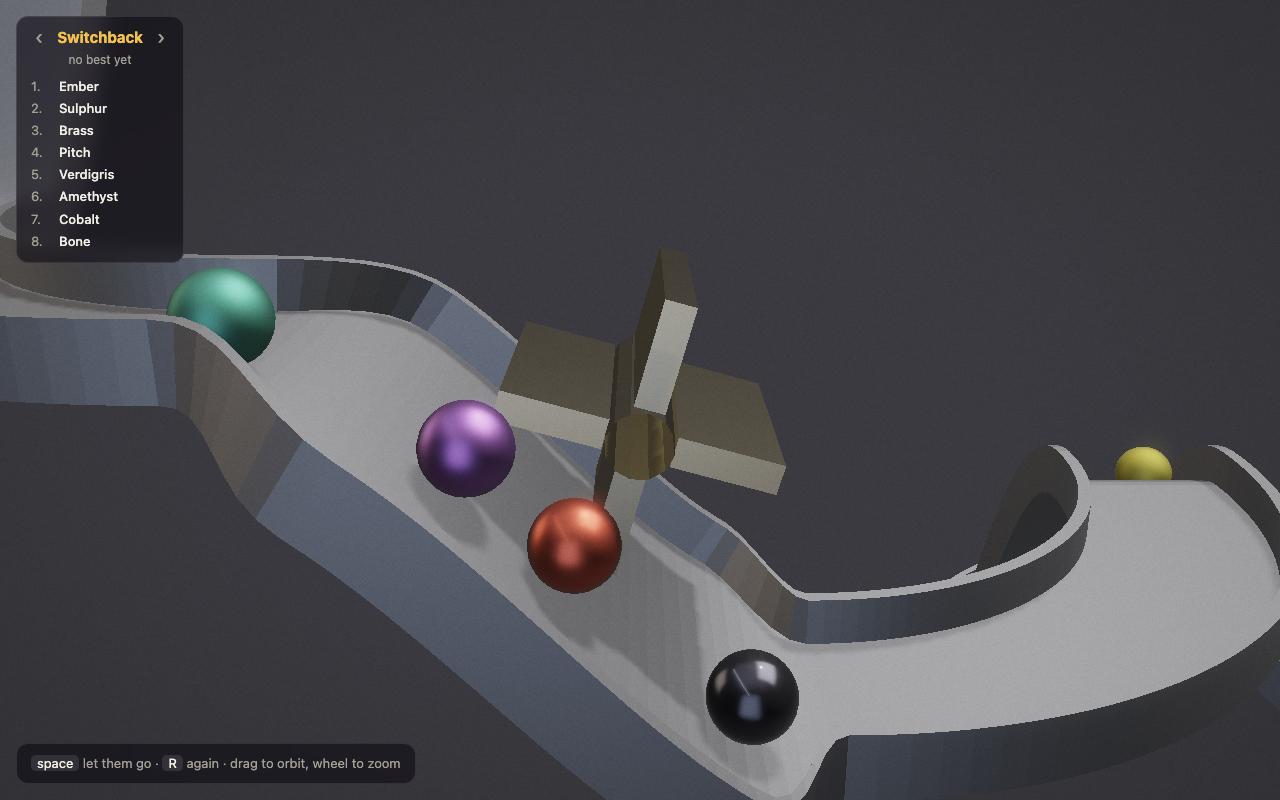
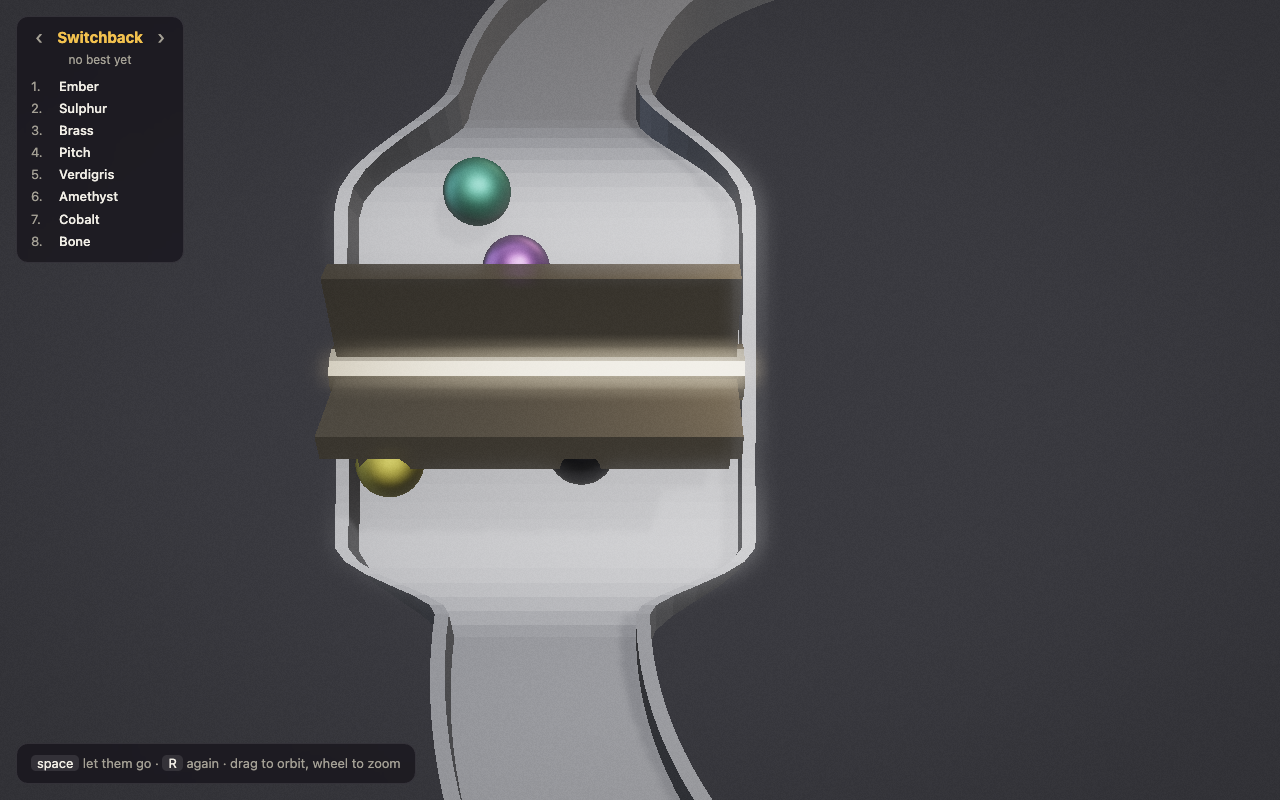
The wheel stands right across its pen, so no field can go by it untouched
On Switchback the marbles came into the wheel's pen on the right and ran past
the wheel, which stood over the left half. A marble comes into a pen within a
chute's width of its middle and keeps its line through it, so the field never
spread across the pen, and the left bend before the wheel put all of it on
the outside. Over sixty races all 480 marbles passed the wheel on the right:
it really checked 28% of them and only grazed most of the rest, every one
took the same 0.4 s over its piece, and the field left it in exactly the
order it came.

The wheel now reaches from wall to wall, so no approach can take a field
round it, and turns once in 4.8 s rather than 2.4. Turning at the old speed
right across the pen, it held one marble at a time and handed the field on
in the order it came; at half the speed those that come close together are
gathered abreast behind a paddle and let go at once, which shuffles them.
It now holds every marble from half a second to a second and a third longer
than a plain ramp would. Its size is one setting the scene draws it from,
so what is drawn is what the marbles meet. On Switchback the grid now tells
0.05 of the finish, pole wins 18 races in 100 and the back half 40, and none
was lost or stalled in 500 races; the other runs are unchanged.

Every run is now held to having nothing in its way that the field goes by
unchanged: judged on the sixty races the randomness test already runs, the
[…]

diff --git a/test/runs.test.ts b/test/runs.test.ts
@@ -1,13 +1,15 @@
 /**
  * Every run that comes with the game, held to what a run has to be: sound,
- * named once, and raced to the end without a marble lost, stopped, or going
- * so fast that it could step clean through another in one frame.
+ * named once, a race and not a procession, with nothing in its way that the
+ * field goes by unchanged, and raced to the end without a marble lost,
+ * stopped, or going so fast that it could step clean through another in one
+ * frame.
  */
 import { describe, expect, it } from 'vitest';
 import { FINISHED, Marbles, RADIUS, checkMarbles } from '../src/marbles';
 import { seeded } from '../src/random';
 import { RUNS } from '../src/runs';
-import { check, checkTrack, compile } from '../src/track';
+import { type Run, check, checkTrack, compile } from '../src/track';
 
 const DT = 1 / 60;
 /** How fast a marble may go and still not cover its own width in a frame, which is when one could pass through another. */
@@ -27,6 +29,65 @@ function tau(a: number[], b: number[]): number {
       else if (s < 0) other++;
     }
   return (same - other) / (same + other);
+}
+
+/**
+ * A run raced `JUDGED` times: how far the finishing order followed the grid, summed over the races; how often
+ * the back half of the grid won; and for each piece with something in the way, how far the order the marbles
+ * left it followed the order they came on to it, on average. Raced once for every test that asks.
+ */
+interface Judged {
+  follows: number;
+  fromTheBack: number;
+  kept: Map<number, number>;
+}
+const judged = new Map<string, Judged>();
+function judge(run: Run): Judged {
+  const done = judged.get(run.id);
+  if (done) return done;
+  const track = compile(run);
+  const inTheWay = track.segments.flatMap((s, i) => (s.obstacles.length > 0 || s.funnel ? [i] : []));
+  const kept = new Map(inTheWay.map((s) => [s, 0]));
+  let follows = 0,
+    fromTheBack = 0;
+  for (let seed = 1; seed <= JUDGED; seed++) {
+    const marbles = new Marbles(track, {}, { random: seeded(seed) });
+    // when each marble came on to each piece, and when it left it for one further on
+    const on = track.segments.map(() => new Float64Array(marbles.count).fill(-1));
+    const off = track.segments.map(() => new Float64Array(marbles.count).fill(-1));
+    const last = new Int32Array(marbles.count);
+    marbles.release();
+    for (let f = 0; f < 120 * 60 && !marbles.over; f++) {
+      marbles.step(DT);
+      for (let i = 0; i < marbles.count; i++) {
+        const s = marbles.segment[i];
+        if (on[s][i] < 0) on[s][i] = marbles.t;
+        for (; last[i] < s; last[i]++) off[last[i]][i] = marbles.t;
+      }
+    }
+    const all = [...Array(marbles.count).keys()];
+    follows += tau(
+      all.map((i) => marbles.grid[i]),
+      all.map((i) => marbles.place[i]),
+    );
+    const winner = all.find((i) => marbles.place[i] === 1)!;
+    if (marbles.grid[winner] >= marbles.count / 2) fromTheBack++;
+    for (const s of inTheWay) {
+      const through = all.filter((i) => on[s][i] >= 0 && off[s][i] >= 0);
+      kept.set(
+        s,
+        kept.get(s)! +
+          tau(
+            through.map((i) => on[s][i]),
+            through.map((i) => off[s][i]),
+          ) /
+            JUDGED,
+      );
+    }
+  }
+  const out = { follows, fromTheBack, kept };
+  judged.set(run.id, out);
+  return out;
 }
 
 describe('the runs that come with the game', () => {
@@ -56,27 +117,25 @@ describe('the runs that come with the game', () => {
       });
 
       it(`is a race and not a procession: the grid tells little of who wins, over ${JUDGED} races`, () => {
-        const track = compile(run);
-        let follows = 0,
-          fromTheBack = 0;
-        for (let seed = 1; seed <= JUDGED; seed++) {
-          const marbles = new Marbles(track, {}, { random: seeded(seed) });
-          marbles.release();
-          for (let f = 0; f < 120 * 60 && !marbles.over; f++) marbles.step(DT);
-          const all = [...Array(marbles.count).keys()];
-          follows += tau(
-            all.map((i) => marbles.grid[i]),
-            all.map((i) => marbles.place[i]),
-          );
-          const winner = all.find((i) => marbles.place[i] === 1)!;
-          if (marbles.grid[winner] >= marbles.count / 2) fromTheBack++;
-        }
+        const { follows, fromTheBack } = judge(run);
         // on the chutes alone the finishing order followed the grid by 0.70 to 0.88, and no marble ever won from
         // the back half; held to within 0.4 of no relation at all either way, and the back half winning at least
         // one race in five and at most four
         expect(Math.abs(follows / JUDGED), 'how far the finishing order follows the grid').toBeLessThanOrEqual(0.4);
         expect(fromTheBack / JUDGED, 'how often the back half of the grid wins').toBeGreaterThanOrEqual(0.2);
         expect(fromTheBack / JUDGED).toBeLessThanOrEqual(0.8);
+      });
+
+      it(`has nothing in its way that the field goes by unchanged, over ${JUDGED} races`, () => {
+        // a plain chute, curve or spiral hands the field on in the order it came, 0.91 to 1.00; every piece with
+        // something in the way is there to change that, and one the field can go by keeps it too. Switchback's
+        // wheel, over the half of its pen the field never came down after the bend before it, kept it at 1.00
+        const track = compile(run);
+        for (const [s, kept] of judge(run).kept)
+          expect(
+            kept,
+            `the ${run.pieces[track.segments[s].piece].kind}, piece ${track.segments[s].piece}`,
+          ).toBeLessThanOrEqual(0.85);
       });
 
       it(`is raced to the end on ${SEEDS} seeds with every marble home and no rule broken`, () => {

diff --git a/src/track.ts b/src/track.ts
@@ -430,6 +430,15 @@ const BOARD = 3.6;
 export const PEG = 0.22;
 
 /**
+ * A paddle wheel, which the scene draws as the solver has it: how wide its
+ * pen is either side of the middle; how far its paddles reach across, which
+ * is the pen less a paddle's own thickness, so no marble gets round an end;
+ * how thick a paddle is, how high the axle stands above a marble's middle,
+ * how long a paddle is, and how long the wheel takes to go round.
+ */
+export const WHEEL = { pen: 2.6, half: 2.42, radius: 0.18, axle: 1, arm: 1.45, period: 4.8 };
+
+/**
  * Rows of pegs, each row shifted half a gap from the one before, so that a
  * marble falling straight down a board meets a peg in every other row. The
  * gaps are wider than a marble, so nothing can wedge; what a marble cannot
@@ -550,22 +559,23 @@ const SHAPES: Record<Kind, Shape> = {
     exit: { x: 1, y: 0, z: -1, turn: 0 },
     rough: Math.hypot(CELL, LEVEL) * 1.1,
     curve: rampCurve,
-    // a pen, and a wheel over one half of it: a wheel across the whole of a chute carries a field on in the
-    // order it came, a paddle's worth at a time; over half a pen it holds back the marbles on its side while
-    // those on the other roll past, and which side a marble is on is where the pegs and the jostle left it
-    width: opening(2.6, 0.25, 0.8),
-    // four paddles, one down in the chute at a time for 0.6 s: a marble that catches one up is held behind it
-    // until it lifts out, and one that arrives as a paddle lifts runs on under the wheel untouched, so a marble
-    // is kept anything from nothing to two thirds of a second by where in its turn it finds the wheel. The axle
+    // a pen, and a wheel right across it. A wheel over one half of its pen was a wheel the field could miss: a
+    // marble comes into a pen within a chute's width of its middle and keeps its line, and after a bend the whole
+    // field comes down the outside, so on Switchback it passed the wheel by in every race of sixty
+    width: opening(WHEEL.pen, 0.25, 0.8),
+    // four paddles, one down in the chute at a time for 1.2 s: a marble that catches one up is held behind it
+    // until it lifts out, and one that arrives as a paddle lifts runs on under the wheel. A wheel turning twice as
+    // fast held only one marble at a time, and handed a field on in the order it came; this one gathers those
+    // that come close together behind a paddle, abreast across the pen, and lets them all go at once. The axle
     // stands low enough that a paddle's tip clears the chute's floor at the bottom of its turn, so the wheel the
     // marbles meet is the wheel that is drawn
     obstacles: [0, 0.25, 0.5, 0.75].map((turn) => ({
       u: 0.5,
-      across: -1.25,
-      half: 1.35,
+      across: 0,
+      half: WHEEL.half,
       angle: Math.PI / 2,
-      radius: 0.18,
-      motion: { kind: 'paddle' as const, period: 2.4, turn, axle: 1, arm: 1.45 },
+      radius: WHEEL.radius,
+      motion: { kind: 'paddle' as const, period: WHEEL.period, turn, axle: WHEEL.axle, arm: WHEEL.arm },
     })),
   },
   funnel: {

diff --git a/test/marbles.test.ts b/test/marbles.test.ts
@@ -572,23 +572,28 @@ describe('the marbles', () => {
       }
     });
 
-    it('holds a marble back by where in its turn it finds the wheel, from not at all to over half a second', () => {
-      /** How long a marble let go into the piece at `speed` takes to cross it, the wheel's turn begun at `phase`. */
-      const crossing = (kind: 'wheel' | 'ramp', phase: number) => {
+    it('holds back every marble that comes under the wheel, whichever side of the chute it comes in on', () => {
+      /** How long a marble let go into the piece `across` its chute takes to cross it, the wheel's turn begun at `phase`. */
+      const crossing = (kind: 'wheel' | 'ramp', across: number, phase: number) => {
         const run = chain(['start', 'ramp', kind, 'straight', 'finish']);
-        // under the wheel's half of the pen, and on a plain ramp as near that side as its chute allows
-        const { marbles } = setOn(run, 2, 0.2, kind === 'wheel' ? -1.2 : -0.7, 5);
+        const { marbles } = setOn(run, 2, 0.2, across, 5);
         const paddles = marbles.track.segments[2].obstacles;
         if (paddles.length) marbles.phase[paddles[0].slot] = phase;
         let f = 0;
         for (; f < 10 * 60 && marbles.segment[0] === 2; f++) marbles.step(DT);
         return f * DT;
       };
-      const ramp = crossing('ramp', 0);
-      const wheel = Array.from({ length: 20 }, (_, k) => crossing('wheel', k / 20));
-      const mean = wheel.reduce((a, b) => a + b, 0) / wheel.length;
-      expect(mean - ramp, 'held back, on the whole').toBeGreaterThan(0.15);
-      expect(Math.max(...wheel) - Math.min(...wheel), 'by more at one moment than another').toBeGreaterThan(0.4);
+      // either edge of a chute's stream, as a field comes down the outside of a bend one way or the other: a wheel
+      // over one half of its pen let one side go by untouched
+      for (const across of [-0.7, 0.7]) {
+        const ramp = crossing('ramp', across, 0);
+        const wheel = Array.from({ length: 20 }, (_, k) => crossing('wheel', across, k / 20));
+        expect(Math.min(...wheel) - ramp, `${across} across: held, whenever it comes`).toBeGreaterThan(0.3);
+        expect(
+          Math.max(...wheel) - Math.min(...wheel),
+          `${across} across: longer at one moment than another`,
+        ).toBeGreaterThan(0.4);
+      }
     });
 
     it('starts the moving pieces somewhere in their turn chosen by the seed, the same for the same seed', () => {

diff --git a/smoke/look.spec.ts b/smoke/look.spec.ts
@@ -113,7 +113,7 @@ test.describe('what it looks like', () => {
     expect(problems).toEqual([]);
   });
 
-  test('the wheel on switchback, a paddle down in the chute', async ({ page }) => {
+  test('the field gathered behind the wheel on switchback', async ({ page }) => {
     const problems = watch(page);
     await start(page, { seed: 11, paused: true });
     const atWheel = await page.evaluate(() => {
@@ -121,13 +121,13 @@ test.describe('what it looks like', () => {
       g.pick(4);
       g.release();
       g.follow(false);
-      g.step(709);
-      // from along the axle, so the paddles are seen as the cross they make
-      g.look(13.25, -28.05, -25, { azimuth: Math.PI, polar: 1.25, radius: 11 });
+      g.step(719);
+      // looking down its pen, so the wheel is seen right across it from wall to wall, with the field at it
+      g.look(13.25, -28.05, -25.5, { azimuth: -Math.PI / 2, polar: 0.75, radius: 14 });
       g.step(1);
       return g.marbles().filter((m) => m.segment === 8).length;
     });
-    expect(atWheel, 'the picture is of marbles at the wheel, or it is not this picture').toBe(4);
+    expect(atWheel, 'the picture is of marbles at the wheel, or it is not this picture').toBe(6);
     await hideStats(page);
     await expect(page.locator('#view')).toHaveScreenshot('wheel.png', TOLERANCE);
     expect(problems).toEqual([]);

diff --git a/src/scene.ts b/src/scene.ts
@@ -17,6 +17,7 @@ import {
   HALF_WIDTH,
   MOVING_MOST,
   PEG,
+  WHEEL,
   type Obstacle,
   type Pose,
   type Track,
@@ -179,7 +180,13 @@ export class Scene {
         roughness: 0.45,
       },
       { mesh: bar(1, 0.4, GATE_HEIGHT), matrices: this.gates, count: 0, albedo: [0.7, 0.1, 0.08], roughness: 0.5 },
-      { mesh: wheel(1.45, 2.7, 4), matrices: this.wheels, count: 0, albedo: [0.68, 0.5, 0.16], roughness: 0.3 },
+      {
+        mesh: wheel(WHEEL.arm, WHEEL.half * 2, 4),
+        matrices: this.wheels,
+        count: 0,
+        albedo: [0.68, 0.5, 0.16],
+        roughness: 0.3,
+      },
     ];
   }
 

diff --git a/CLAUDE.md b/CLAUDE.md
@@ -160,8 +160,8 @@ want a change to artshape-render since it has no textures. Open, and
 belonging with those:
 
 - **Where on the grid still counts for something.** Over sixty races each,
-  pole wins 7% on The Tower, 12% on First Drop, 13% on Switchback, 15% on
-  The Chute and 22% on The Leap, down from 27% to 85% before the pegs, pens
+  pole wins 7% on The Tower, 12% on First Drop, 15% on The Chute, 18% on
+  Switchback and 22% on The Leap, down from 27% to 85% before the pegs, pens
   and funnel; and the back half of the grid wins 70% on The Tower, whose
   gate lets the back of a pen go first as often as the front. The bet prices
   this with odds, run by run.
@@ -177,9 +177,17 @@ belonging with those:
   twentieth (`LEAN`), as a real run is set up to, so a queue behind a pen
   always drains; a truly level piece let a crowd come to rest on it.
 - **A wheel is a gate that turns.** A marble that catches a paddle up is
-  held until the paddle lifts out; one that arrives between paddles runs on
-  under it. It holds a marble anything from nothing to two thirds of a
-  second, and that spread is what it is for.
+  held until the paddle lifts out, and those that come close together are
+  gathered abreast behind it and let go at once. It stands right across its
+  pen, and holds every marble from half a second to a second and a third;
+  over one half of its pen, the field came down the other half after a bend
+  and went by untouched.
+- **Nothing in the way may be missed.** A marble keeps its line through a
+  pen, within a chute's width of the middle, and a bend puts a whole field
+  on its outside; a thing in the way that does not reach across that
+  stream, both sides, is one a layout can make the field miss.
+  `test/runs.test.ts` holds every piece with something in the way to
+  changing the order it hands the field on in.
 
 ## Rules for the code
 

diff --git a/README.md b/README.md
@@ -26,9 +26,10 @@ Five runs, each its own kind of race, and on every one something that
 breaks a field up, since a chute alone is single file and finishes in the
 order the grid set: **peg boards** that knock a marble off its line;
 **sweepers** that swing across a board; **gates** that hold a pen and slide
-open from one wall, then the other; a **paddle wheel** that holds back
-whatever catches a paddle up; and a **funnel**, where the field circles a bowl
-until each marble is slow enough to drop through the hole. The runs:
+open from one wall, then the other; a **paddle wheel** right across its pen
+that holds back every marble that comes under it; and a **funnel**, where
+the field circles a bowl until each marble is slow enough to drop through
+the hole. The runs:
 **First Drop**, a peg board and a gate between long drops; **The Chute**, a
 sweeper and a gate and over in five seconds; **The Tower**, a gate, three
 turns of a spiral and a funnel at its foot; **The Leap**, two jumps, the
